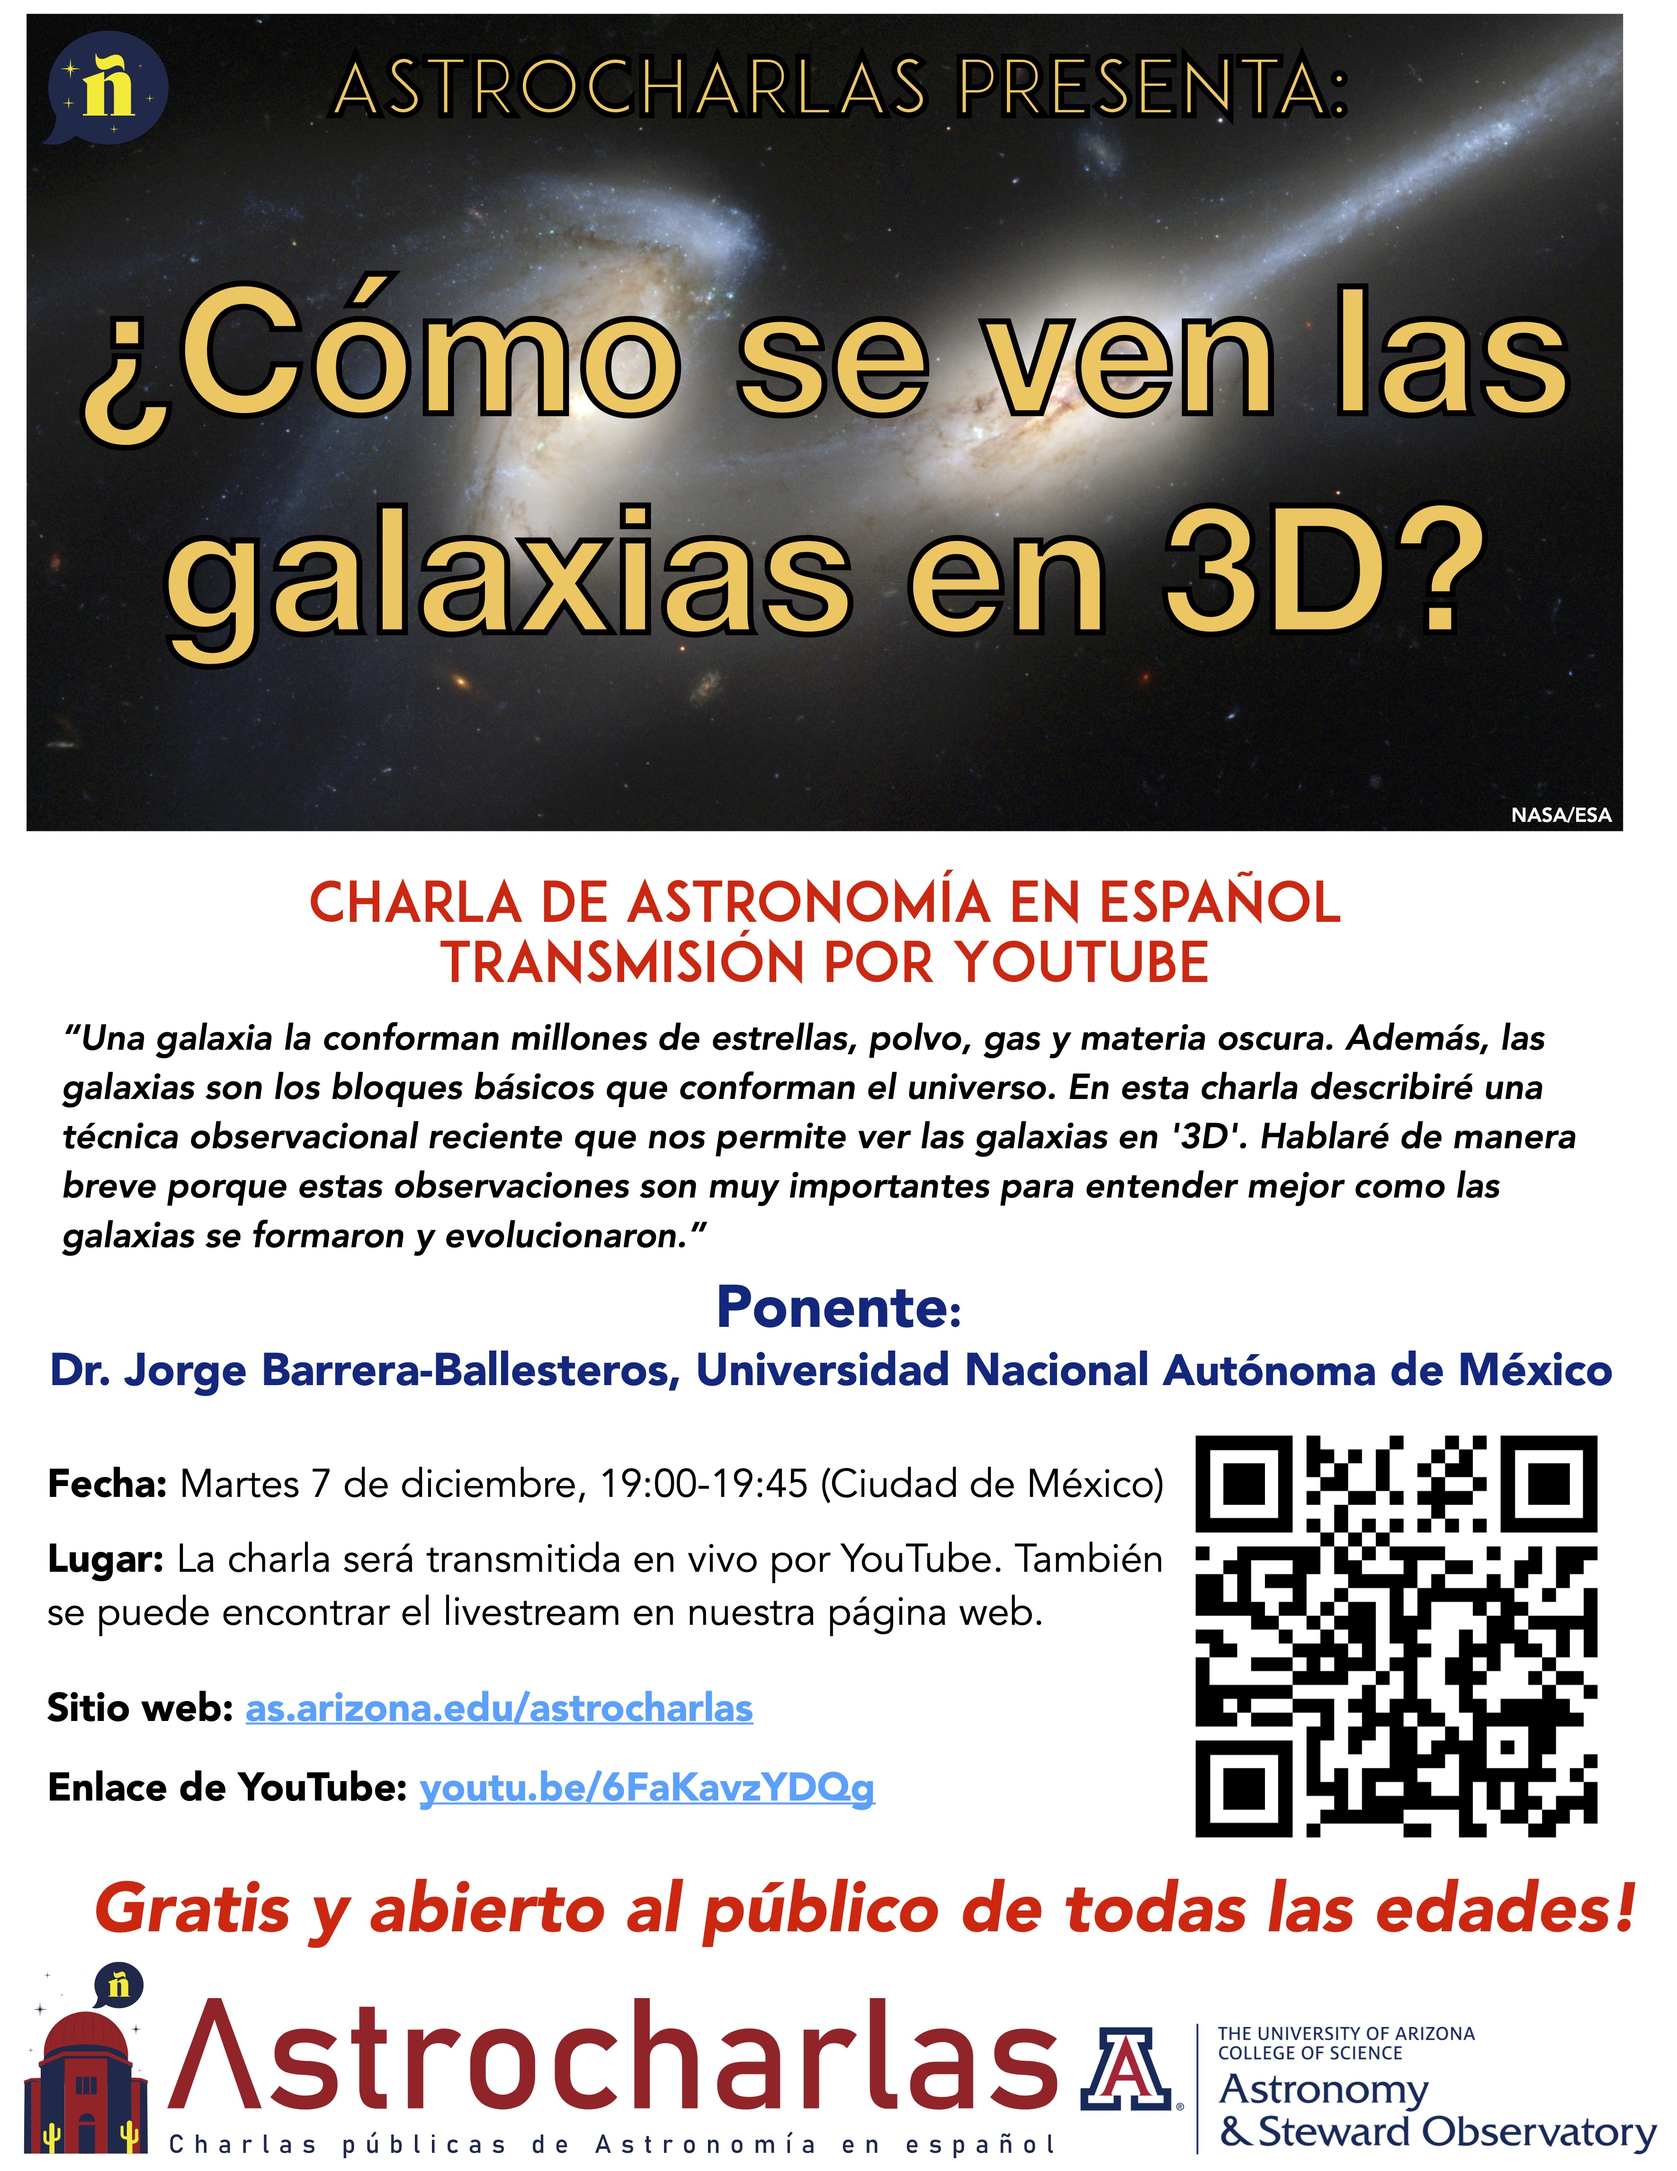
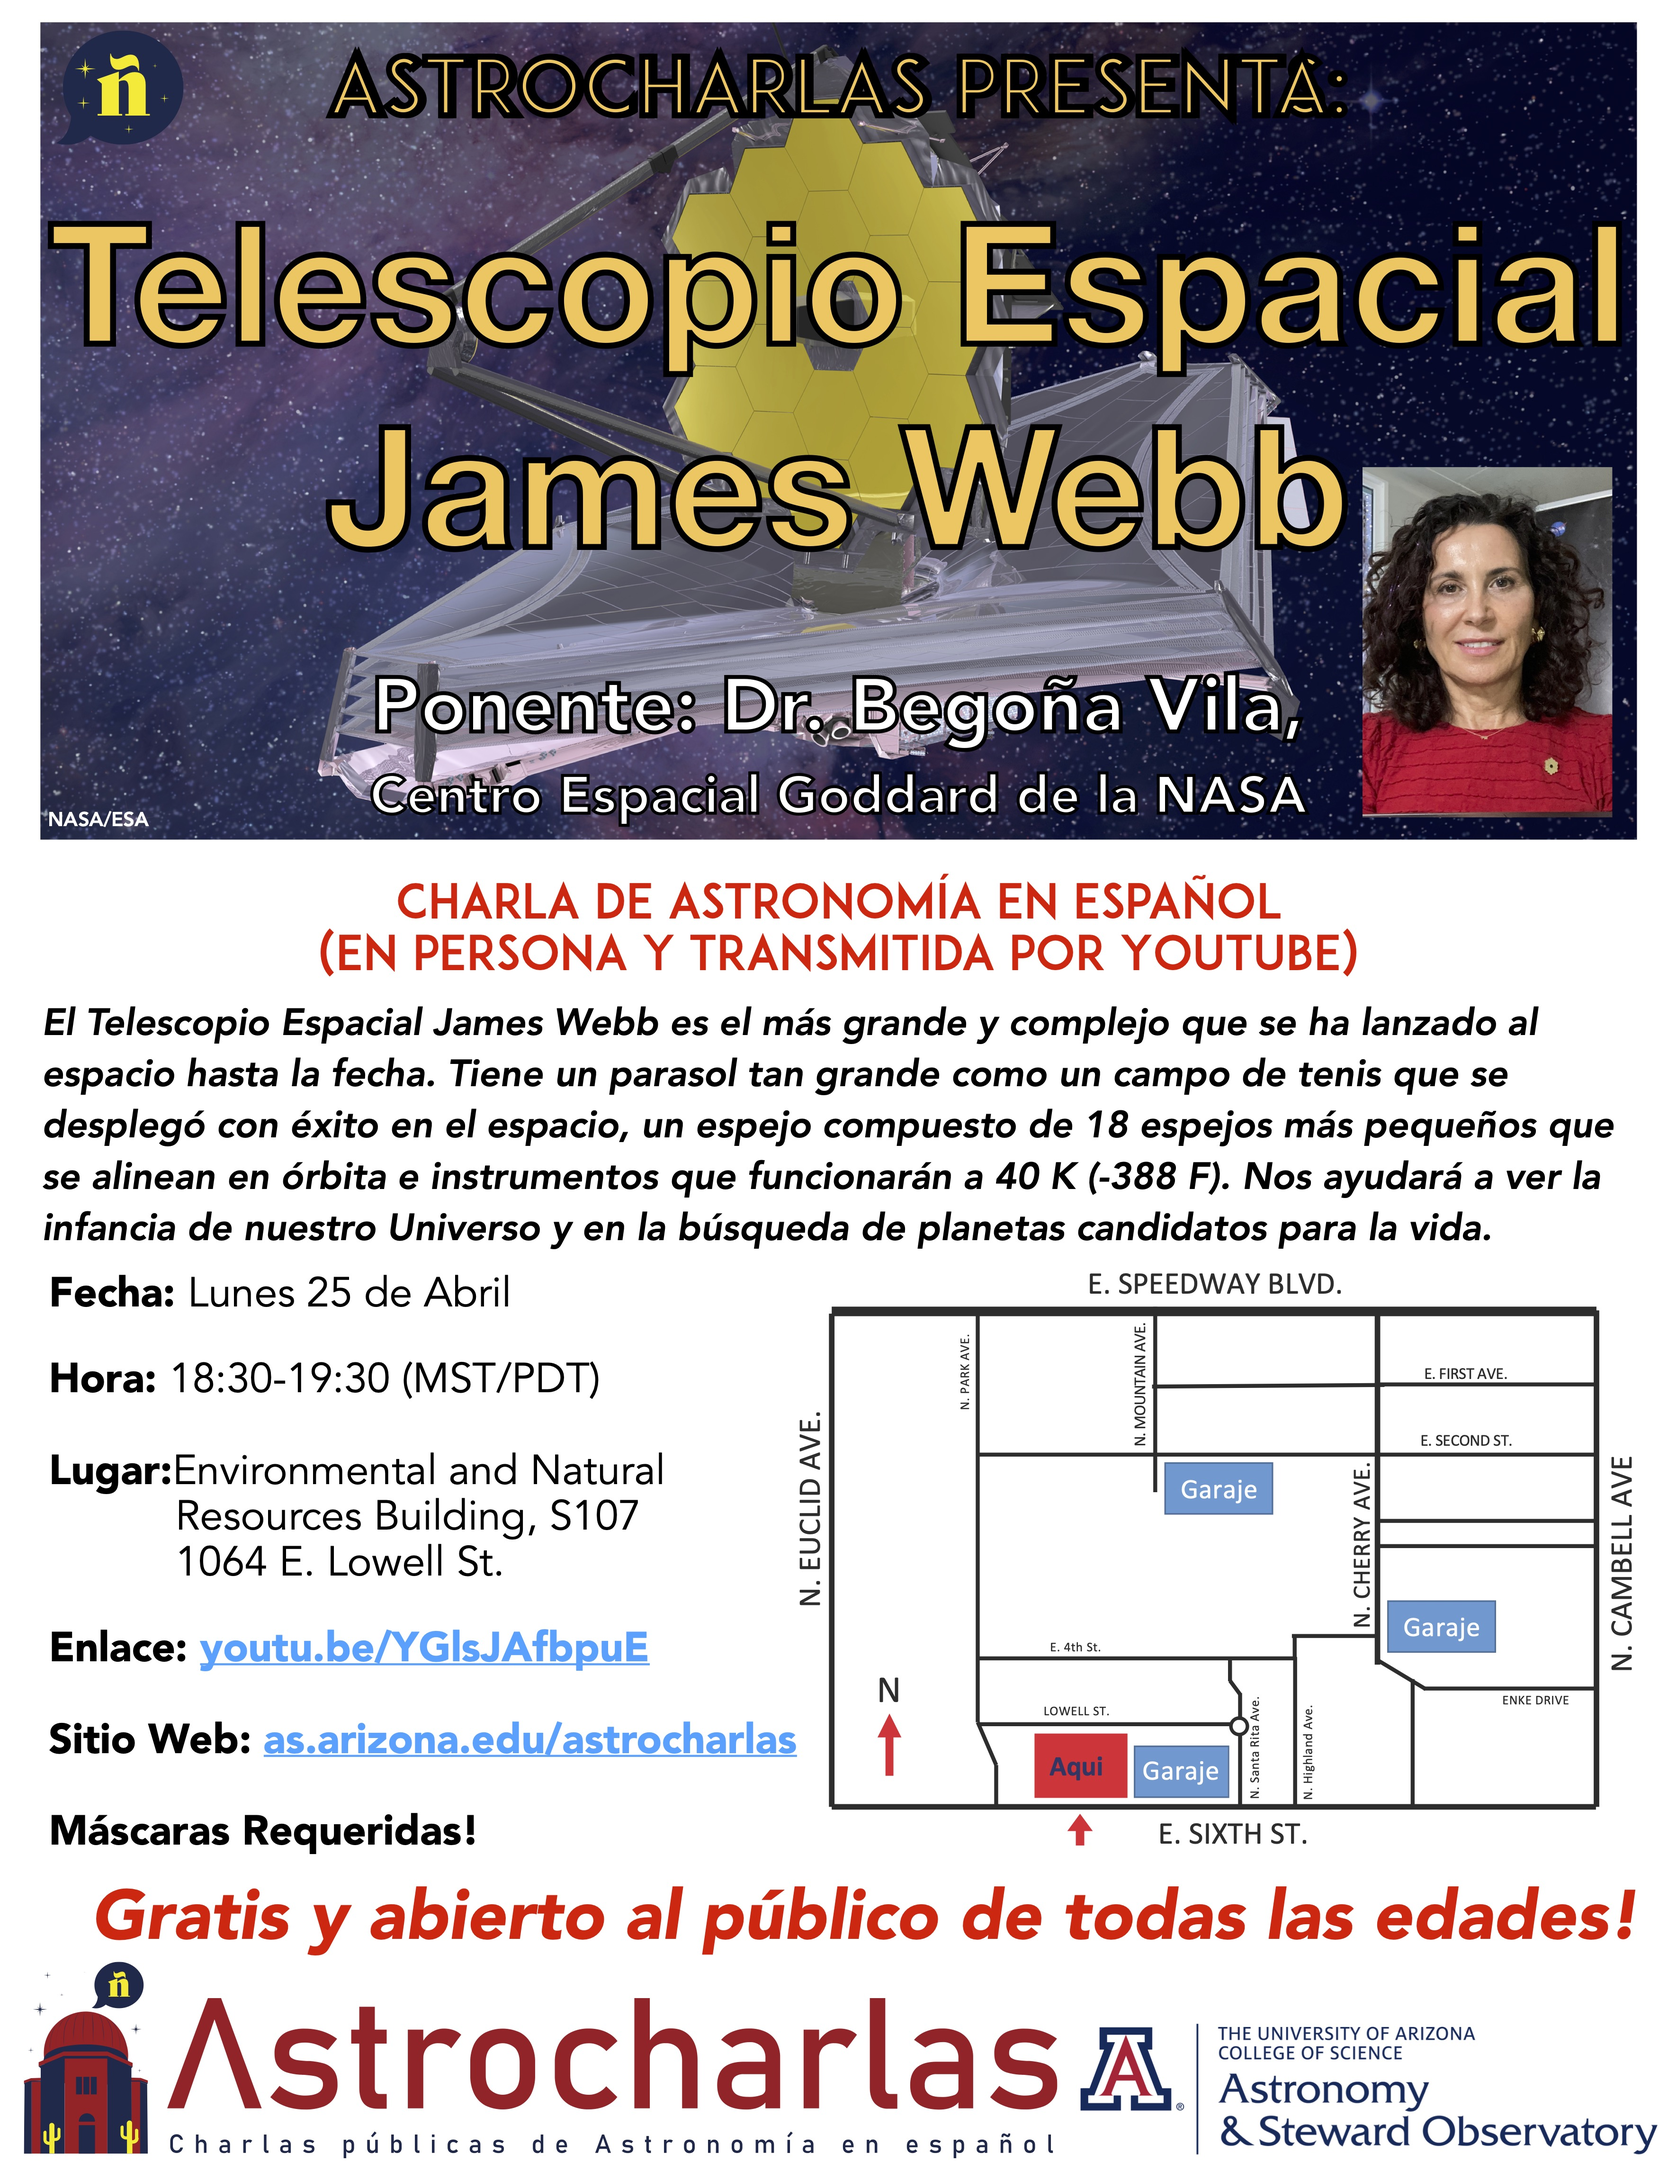
New Charla

diff --git a/schedule.html b/schedule.html
@@ -55,8 +55,8 @@
 					<div id="main">
 						<div class="inner">
 							<h1>Calendario (Schedule)</h1>
-							<h2 style="margin-bottom:0.25cm;"><i>El Proximo ponente será:</i> <a href="https://www.astroscu.unam.mx/IA/index.php?option=com_content&view=article&id=981&Itemid=200&lang=es" target=_blank>Dr. Jorge Barrera-Ballesteros</a></h2> 
-							<h3 style="margin-bottom:0.5cm;"><i>The next speaker will be:</i> <a href="https://www.astroscu.unam.mx/IA/index.php?option=com_content&view=article&id=981&Itemid=200&lang=es" target=_blank>Dr. Jorge Barrera-Ballesteros</a></h3> 
+							<h2 style="margin-bottom:0.25cm;"><i>El Proximo ponente será:</i> <a href="https://jwst.nasa.gov/content/meetTheTeam/people/vila.html" target=_blank>Dra. Begoña Vila</a></h2> 
+							<h3 style="margin-bottom:0.5cm;"><i>The next speaker will be:</i> <a href="https://jwst.nasa.gov/content/meetTheTeam/people/vila.html" target=_blank>Dr. Begoña Vila</a></h3> 
 							<span class="image main">
 								<img src="images/Advert.jpg">
 								<img>
@@ -77,20 +77,20 @@
 									<tbody>
 										<tr>
 											<td><a href="https://jwst.nasa.gov/content/meetTheTeam/people/vila.html" target=_blank>Dra.&nbsp;Begoña&nbsp;Vila</a></td>
-                                            <td>¿Cómo se ven las galaxias en 3D? <a
-												href="https://youtu.be/YGlsJAfbpuE" target=_blank>[video]</a></td>
+                                            <td>El Telescopio Espacial James Webb
+												<a href="https://youtu.be/YGlsJAfbpuE" target=_blank>[video]</a></td>
 											<td>2021-12-07</td>
 										</tr>
 										<tr>
 											<td><a href="https://www.astroscu.unam.mx/IA/index.php?option=com_content&view=article&id=981&Itemid=200&lang=es" target=_blank>Dr.&nbsp;Jorge&nbsp;K.&nbsp;Barrera-Ballesteros</a></td>
-                                            <td>¿Cómo se ven las galaxias en 3D? <a
-												href="https://youtu.be/6FaKavzYDQg" target=_blank>[video]</a></td>
+                                            <td>¿Cómo se ven las galaxias en 3D? 
+												<a href="https://youtu.be/6FaKavzYDQg" target=_blank>[video]</a></td>
 											<td>2021-12-07</td>
 										</tr>
 										<tr>
 											<td><a href="https://www.astro.ucsc.edu/faculty/index.php?uid=raruiz" target=_blank>Prof.&nbsp;Enrico&nbsp;Ramirez-Ruiz</a></td>
-                                            <td>Transformando Estrellas en Oro <a
-												href="https://youtu.be/RI7gbDMx6MA" target=_blank>[video]</a></td>
+                                            <td>Transformando Estrellas en Oro
+												<a href="https://youtu.be/RI7gbDMx6MA" target=_blank>[video]</a></td>
 											<td>2021-04-26</td>
 										</tr>										
 										<tr>

diff --git a/index.html b/index.html
@@ -62,12 +62,12 @@
 <!-- 
 								<p><b>Estamos buscando un/a coordinador/a de pregrado para Astrocharlas. Los beneficios del programa incluyen: Apoyo para aplicar a <a href="https://www.sacnas.org/what-we-do/conference/">SACNAS (Sociedad para el Avance de Chicanos/Hispanos y Nativos Americanos en Ciencias)</a> 2021. Tambien apoyaremos economicamente su viaje a la conferencia. Envíanos un correo electrónico para obtener más información!<br><i>We are currently looking for an undergraduate coordinator for Astrocharlas. We will help you apply to <a href="https://www.sacnas.org/what-we-do/conference/">SACNAS (Society for Advancement of Chicanos/Hispanics and Native Americans in Science)</a> 2021 and support your travel to the conference. Email us to learn more!</i></b></p> -->
 
-								<p><b>Nuestra próxima charla será transmitida en vivo a través de nuestro canal de YouTube el 7 de deciembre a las 18:00 (MST).<br><i>Our next talk will be livestreamed over YouTube on December 7th at 18:00 (MST).</i></b></p>
+								<p><b>Nuestra próxima charla será en persona en el edificio ENR2 de la Universidad de Arizona y transmitida en vivo a través de nuestro canal de YouTube el 25 de abril a las 18:30 (MST).<br><i>Our next talk will be in person at the ENR2 building at the University of Arizona and livestreamed over YouTube on April 25th at 18:30 (MST).</i></b></p>
 
 								<div class="container">
 									<span class="image main">
 
-									<a href="https://www.youtube.com/embed/6FaKavzYDQg">
+									<a href="https://www.youtube.com/embed/YGlsJAfbpuE">
 										<img src="images/embed.png" alt="" />
 									</a>
 									</span>

diff --git a/volunteers.html b/volunteers.html
@@ -92,7 +92,7 @@
 								</article>
 						</section>
 
-						<h3>Estudiantes  Universitarios (Undergraduate Students)</h3>
+						<h3>Estudiantes Universitarios (Undergraduate Students)</h3>
 						<section class="tiles" style="margin-bottom:1cm;margin-top:-1cm">
 							<article class="style1">
 								<span class="image">
